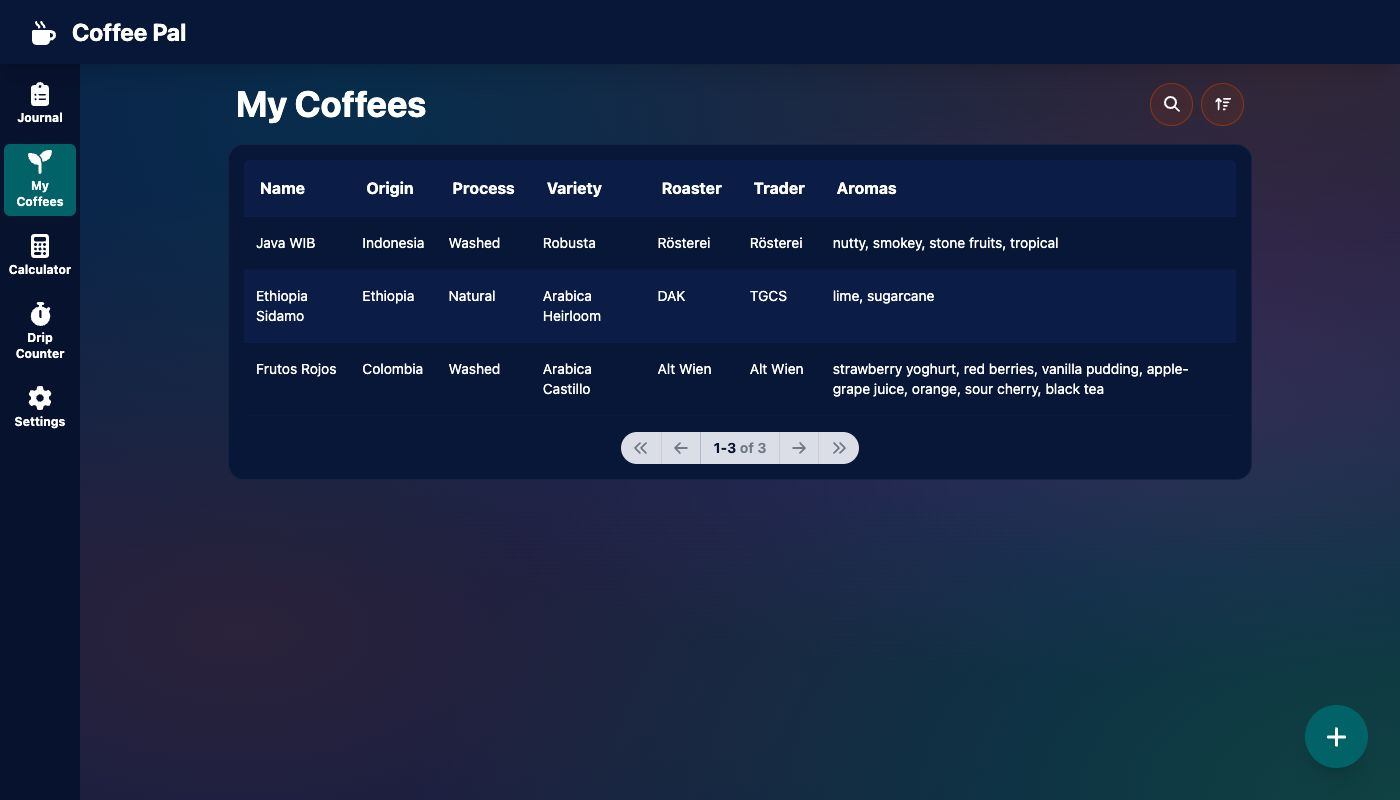
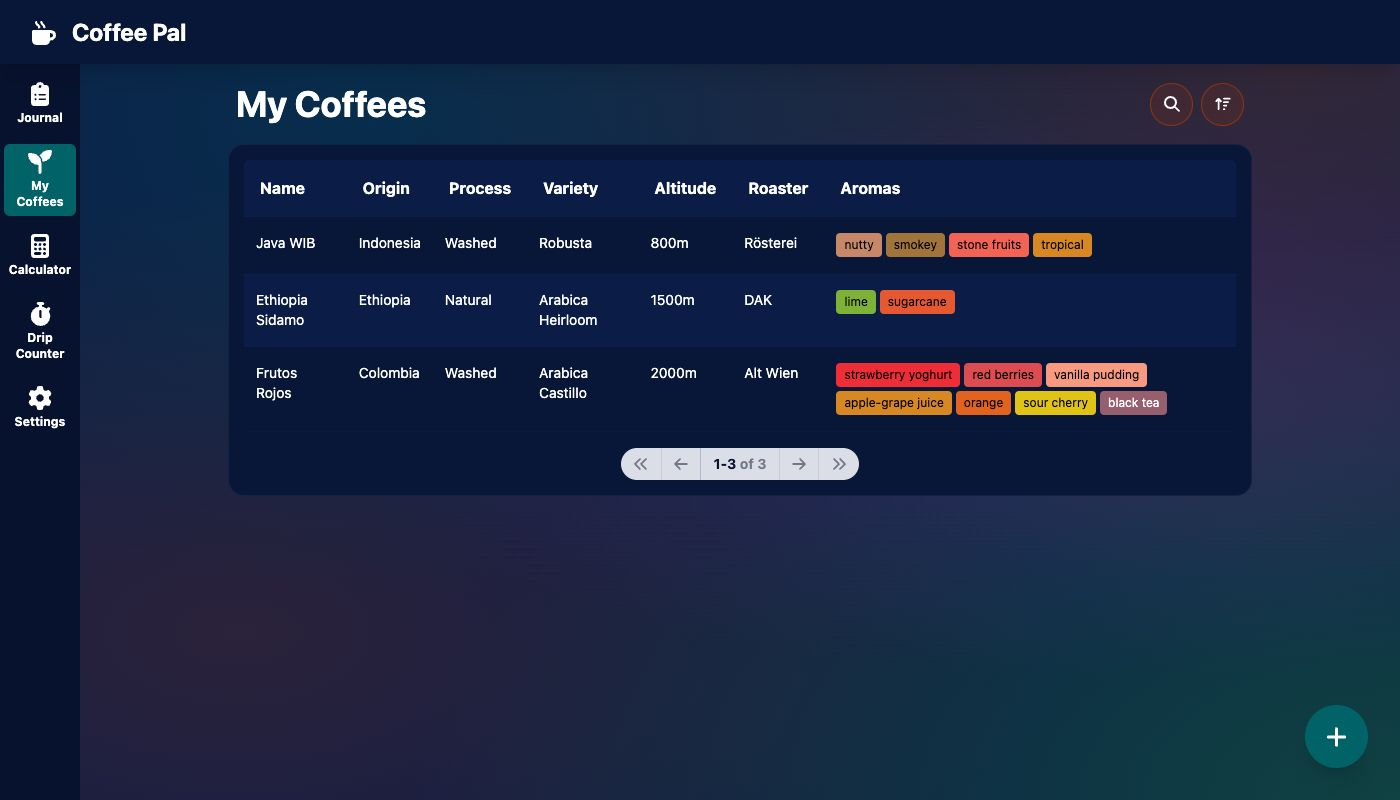
fix(myCoffees): convert altitude to string in screenshot generation

diff --git a/scripts/generate-screenshots.js b/scripts/generate-screenshots.js
@@ -195,7 +195,7 @@ async function addCoffeeEntry({
   await page.getByLabel('origin').fill(origin);
   await page.getByLabel('process').fill(process);
   await page.getByLabel('variety').fill(variety);
-  await page.getByLabel('altitude').fill(altitude);
+  await page.getByLabel('altitude').fill(`${altitude}`);
   await page.getByLabel('roaster').fill(roaster);
   await page.getByLabel('trader').fill(trader);
 
